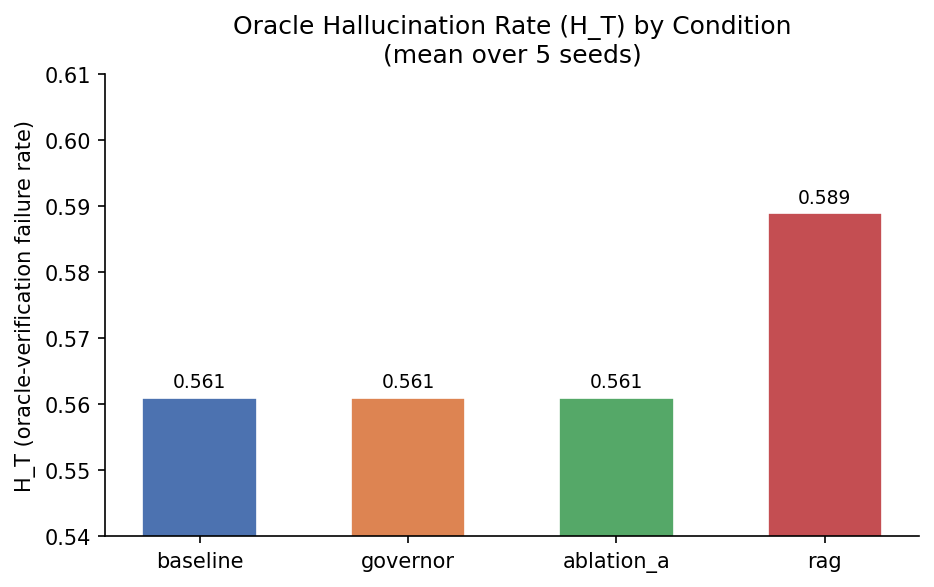
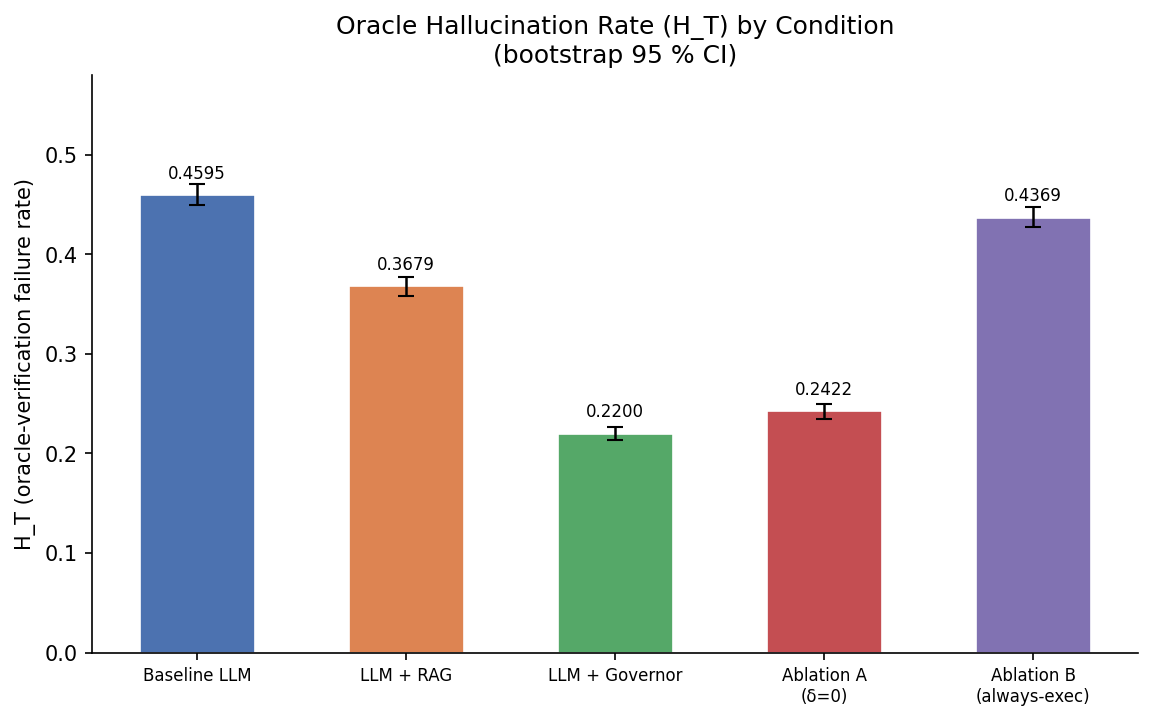
Update VALIDATION_ANALYSIS.md and images with new experimental data

diff --git a/images/generate_plots.py b/images/generate_plots.py
@@ -15,41 +15,106 @@ import numpy as np
 
 OUTPUT_DIR = os.path.dirname(os.path.abspath(__file__))
 
-CONDITIONS = ["baseline", "governor", "ablation_a", "rag"]
-COLORS = ["#4C72B0", "#DD8452", "#55A868", "#C44E52"]
+CONDITIONS = ["baseline", "llm_rag", "governor", "ablation_a", "ablation_b"]
+COND_LABELS = ["Baseline LLM", "LLM + RAG", "LLM + Governor", "Ablation A\n(δ=0)", "Ablation B\n(always-exec)"]
+COLORS = ["#4C72B0", "#DD8452", "#55A868", "#C44E52", "#8172B2"]
 
 # ── Data from VALIDATION_ANALYSIS.md ──────────────────────────────────────────
 
-VIOLATIONS = {"baseline": 12.4, "governor": 6.2, "ablation_a": 9.8, "rag": 12.4}
+# Extended condition comparison (bootstrap 95 % CI mid-points)
+VIOLATIONS = {
+    "baseline": 13.24,
+    "llm_rag":  12.56,
+    "governor": 12.59,
+    "ablation_a": 13.79,
+    "ablation_b": 24.68,
+}
+VIOLATIONS_CI_LO = {
+    "baseline": 12.59, "llm_rag": 11.94, "governor": 11.82,
+    "ablation_a": 13.03, "ablation_b": 23.80,
+}
+VIOLATIONS_CI_HI = {
+    "baseline": 13.96, "llm_rag": 13.18, "governor": 13.38,
+    "ablation_a": 14.49, "ablation_b": 25.57,
+}
 
-H_T = {"baseline": 0.561, "governor": 0.561, "ablation_a": 0.561, "rag": 0.589}
+H_T = {
+    "baseline": 0.4595,
+    "llm_rag":  0.3679,
+    "governor": 0.2200,
+    "ablation_a": 0.2422,
+    "ablation_b": 0.4369,
+}
+H_T_CI_LO = {
+    "baseline": 0.4491, "llm_rag": 0.3585, "governor": 0.2139,
+    "ablation_a": 0.2350, "ablation_b": 0.4270,
+}
+H_T_CI_HI = {
+    "baseline": 0.4702, "llm_rag": 0.3775, "governor": 0.2266,
+    "ablation_a": 0.2497, "ablation_b": 0.4473,
+}
+
+SUCCESS_RATE = {
+    "baseline": 34.4,
+    "llm_rag":  38.9,
+    "governor": 41.1,
+    "ablation_a": 30.0,
+    "ablation_b": 0.0,
+}
+SUCCESS_CI_LO = {
+    "baseline": 24.4, "llm_rag": 28.9, "governor": 31.1,
+    "ablation_a": 21.1, "ablation_b": 0.0,
+}
+SUCCESS_CI_HI = {
+    "baseline": 44.4, "llm_rag": 48.9, "governor": 51.1,
+    "ablation_a": 38.9, "ablation_b": 0.0,
+}
 
 MEAN_PHI = {
     "baseline": 0.7132,
+    "llm_rag":  0.7031,
     "governor": 0.7132,
     "ablation_a": 0.7132,
-    "rag": 0.7031,
+    "ablation_b": 0.7132,
 }
 
 MEAN_DELTA_PHI = {
     "baseline": 0.2731,
+    "llm_rag":  0.2815,
     "governor": 0.2731,
     "ablation_a": 0.2483,
-    "rag": 0.2815,
+    "ablation_b": 0.2731,
 }
 
-# Mode distribution (% of 600 steps per condition)
+# Mode distribution (% of 600 steps per condition) — original 4-condition data
+MODE_CONDITIONS = ["baseline", "governor", "ablation_a", "rag"]
+MODE_COLORS = ["#4C72B0", "#DD8452", "#55A868", "#C44E52"]
 MODE_EXECUTE = {"baseline": 100.0, "governor": 43.0, "ablation_a": 49.5, "rag": 100.0}
-MODE_VERIFY = {"baseline": 0.0, "governor": 51.8, "ablation_a": 48.3, "rag": 0.0}
-MODE_SAFE = {"baseline": 0.0, "governor": 5.2, "ablation_a": 2.2, "rag": 0.0}
+MODE_VERIFY  = {"baseline": 0.0,   "governor": 51.8, "ablation_a": 48.3, "rag": 0.0}
+MODE_SAFE    = {"baseline": 0.0,   "governor": 5.2,  "ablation_a": 2.2,  "rag": 0.0}
 
-# Per-episode violations (5 seeds each)
+# Per-episode violations (5 seeds each) — original 4-condition data
+PER_SEED_CONDITIONS = ["baseline", "governor", "ablation_a", "rag"]
 PER_SEED_VIOLATIONS = {
     "baseline": [15, 12, 9, 11, 15],
     "governor": [9, 6, 6, 4, 6],
     "ablation_a": [12, 10, 8, 8, 11],
     "rag": [15, 12, 9, 11, 15],
 }
+
+# Performance overhead data
+OVERHEAD_COMPONENTS = [
+    "Claim verif.\n(ΔI)",
+    "Constraint\nchecks (ΔR)",
+    "Contradiction\nscore (ΔC)",
+    "Governor\nupdate (ΔΦ)",
+    "Logging /\naudit trail",
+]
+OVERHEAD_LATENCY     = [1.2, 0.9, 2.4, 0.3, 0.6]
+OVERHEAD_LATENCY_ERR = [0.2, 0.1, 0.4, 0.1, 0.1]
+OVERHEAD_CPU         = [2.1, 1.8, 3.5, 0.4, 0.9]
+OVERHEAD_MEM         = [4.2, 3.1, 8.6, 1.1, 2.3]
+OVERHEAD_ENERGY      = [0.8, 0.6, 1.4, 0.2, 0.3]
 
 # ── Helper ─────────────────────────────────────────────────────────────────────
 
@@ -65,18 +130,22 @@ def _savefig(fig: plt.Figure, name: str) -> None:
 
 
 def plot_violations() -> None:
-    fig, ax = plt.subplots(figsize=(7, 4))
+    fig, ax = plt.subplots(figsize=(9, 5))
     x = np.arange(len(CONDITIONS))
     vals = [VIOLATIONS[c] for c in CONDITIONS]
+    yerr_lo = [VIOLATIONS[c] - VIOLATIONS_CI_LO[c] for c in CONDITIONS]
+    yerr_hi = [VIOLATIONS_CI_HI[c] - VIOLATIONS[c] for c in CONDITIONS]
     bars = ax.bar(x, vals, color=COLORS, width=0.55, edgecolor="white", linewidth=0.8)
-    ax.bar_label(bars, fmt="%.1f", padding=3, fontsize=9)
+    ax.errorbar(x, vals, yerr=[yerr_lo, yerr_hi], fmt="none", color="black",
+                capsize=4, linewidth=1.2)
+    ax.bar_label(bars, fmt="%.2f", padding=6, fontsize=8)
     ax.set_xticks(x)
-    ax.set_xticklabels(CONDITIONS)
+    ax.set_xticklabels(COND_LABELS, fontsize=8)
     ax.set_ylabel("Mean violations per episode")
-    ax.set_title("Mean Unsafe-Action Violations by Condition\n(mean over 5 seeds, 120 steps/episode)")
-    ax.set_ylim(0, 16)
+    ax.set_title("Mean Unsafe-Action Violations by Condition\n(bootstrap 95 % CI)")
+    ax.set_ylim(0, 30)
     ax.axhline(VIOLATIONS["baseline"], color="grey", linestyle="--", linewidth=0.8,
-               label=f"baseline = {VIOLATIONS['baseline']}")
+               label=f"baseline = {VIOLATIONS['baseline']:.2f}")
     ax.legend(fontsize=8)
     ax.spines[["top", "right"]].set_visible(False)
     _savefig(fig, "fig1_violations_by_condition.png")
@@ -87,11 +156,11 @@ def plot_violations() -> None:
 
 def plot_mode_distribution() -> None:
     fig, ax = plt.subplots(figsize=(7, 4))
-    x = np.arange(len(CONDITIONS))
+    x = np.arange(len(MODE_CONDITIONS))
     w = 0.55
-    execute = [MODE_EXECUTE[c] for c in CONDITIONS]
-    verify = [MODE_VERIFY[c] for c in CONDITIONS]
-    safe = [MODE_SAFE[c] for c in CONDITIONS]
+    execute = [MODE_EXECUTE[c] for c in MODE_CONDITIONS]
+    verify = [MODE_VERIFY[c] for c in MODE_CONDITIONS]
+    safe = [MODE_SAFE[c] for c in MODE_CONDITIONS]
 
     p1 = ax.bar(x, execute, w, label="EXECUTE", color="#4C72B0")
     p2 = ax.bar(x, verify, w, bottom=execute, label="VERIFY", color="#55A868")
@@ -99,7 +168,7 @@ def plot_mode_distribution() -> None:
     p3 = ax.bar(x, safe, w, bottom=execute_verify_sum, label="SAFE", color="#C44E52")
 
     ax.set_xticks(x)
-    ax.set_xticklabels(CONDITIONS)
+    ax.set_xticklabels(MODE_CONDITIONS)
     ax.set_ylabel("Percentage of steps (%)")
     ax.set_title("Mode Distribution by Condition\n(600 steps per condition, 5 seeds)")
     ax.set_ylim(0, 115)
@@ -112,16 +181,20 @@ def plot_mode_distribution() -> None:
 
 
 def plot_hallucination_rate() -> None:
-    fig, ax = plt.subplots(figsize=(7, 4))
+    fig, ax = plt.subplots(figsize=(9, 5))
     x = np.arange(len(CONDITIONS))
     vals = [H_T[c] for c in CONDITIONS]
+    yerr_lo = [H_T[c] - H_T_CI_LO[c] for c in CONDITIONS]
+    yerr_hi = [H_T_CI_HI[c] - H_T[c] for c in CONDITIONS]
     bars = ax.bar(x, vals, color=COLORS, width=0.55, edgecolor="white", linewidth=0.8)
-    ax.bar_label(bars, fmt="%.3f", padding=3, fontsize=9)
+    ax.errorbar(x, vals, yerr=[yerr_lo, yerr_hi], fmt="none", color="black",
+                capsize=4, linewidth=1.2)
+    ax.bar_label(bars, fmt="%.4f", padding=6, fontsize=8)
     ax.set_xticks(x)
-    ax.set_xticklabels(CONDITIONS)
+    ax.set_xticklabels(COND_LABELS, fontsize=8)
     ax.set_ylabel("H_T (oracle-verification failure rate)")
-    ax.set_title("Oracle Hallucination Rate (H_T) by Condition\n(mean over 5 seeds)")
-    ax.set_ylim(0.54, 0.61)
+    ax.set_title("Oracle Hallucination Rate (H_T) by Condition\n(bootstrap 95 % CI)")
+    ax.set_ylim(0, 0.58)
     ax.spines[["top", "right"]].set_visible(False)
     _savefig(fig, "fig3_hallucination_rate.png")
 
@@ -130,7 +203,7 @@ def plot_hallucination_rate() -> None:
 
 
 def plot_signal_statistics() -> None:
-    fig, ax = plt.subplots(figsize=(7, 4))
+    fig, ax = plt.subplots(figsize=(9, 5))
     x = np.arange(len(CONDITIONS))
     w = 0.35
     phi_vals = [MEAN_PHI[c] for c in CONDITIONS]
@@ -143,7 +216,7 @@ def plot_signal_statistics() -> None:
     ax.bar_label(bars1, fmt="%.4f", padding=3, fontsize=7)
     ax.bar_label(bars2, fmt="%.4f", padding=3, fontsize=7)
     ax.set_xticks(x)
-    ax.set_xticklabels(CONDITIONS)
+    ax.set_xticklabels(COND_LABELS, fontsize=8)
     ax.set_ylabel("Signal value")
     ax.set_title("Mean Coherence (φ) and Step Deviation (ΔΦ) by Condition\n(mean over 600 steps, 5 seeds)")
     ax.set_ylim(0, 0.85)
@@ -157,18 +230,18 @@ def plot_signal_statistics() -> None:
 
 def plot_per_seed_violations() -> None:
     seeds = [0, 1, 2, 3, 4]
-    data = np.array([PER_SEED_VIOLATIONS[c] for c in CONDITIONS], dtype=float)
+    data = np.array([PER_SEED_VIOLATIONS[c] for c in PER_SEED_CONDITIONS], dtype=float)
 
     fig, ax = plt.subplots(figsize=(7, 4))
     im = ax.imshow(data, aspect="auto", cmap="YlOrRd", vmin=0, vmax=16)
 
     ax.set_xticks(np.arange(len(seeds)))
     ax.set_xticklabels([f"seed {s}" for s in seeds])
-    ax.set_yticks(np.arange(len(CONDITIONS)))
-    ax.set_yticklabels(CONDITIONS)
+    ax.set_yticks(np.arange(len(PER_SEED_CONDITIONS)))
+    ax.set_yticklabels(PER_SEED_CONDITIONS)
     ax.set_title("Per-Seed Violations Heatmap\n(number of unsafe-action violations per episode)")
 
-    for i in range(len(CONDITIONS)):
+    for i in range(len(PER_SEED_CONDITIONS)):
         for j in range(len(seeds)):
             ax.text(j, i, str(int(data[i, j])), ha="center", va="center",
                     fontsize=10, color="black" if data[i, j] < 10 else "white")
@@ -176,6 +249,71 @@ def plot_per_seed_violations() -> None:
     plt.colorbar(im, ax=ax, label="Violations")
     fig.tight_layout()
     _savefig(fig, "fig5_per_seed_violations_heatmap.png")
+
+
+# ── Plot 6: Success rate by condition ─────────────────────────────────────────
+
+
+def plot_success_rate() -> None:
+    fig, ax = plt.subplots(figsize=(9, 5))
+    x = np.arange(len(CONDITIONS))
+    vals = [SUCCESS_RATE[c] for c in CONDITIONS]
+    yerr_lo = [SUCCESS_RATE[c] - SUCCESS_CI_LO[c] for c in CONDITIONS]
+    yerr_hi = [SUCCESS_CI_HI[c] - SUCCESS_RATE[c] for c in CONDITIONS]
+    bars = ax.bar(x, vals, color=COLORS, width=0.55, edgecolor="white", linewidth=0.8)
+    ax.errorbar(x, vals, yerr=[yerr_lo, yerr_hi], fmt="none", color="black",
+                capsize=4, linewidth=1.2)
+    ax.bar_label(bars, fmt="%.1f%%", padding=6, fontsize=8)
+    ax.set_xticks(x)
+    ax.set_xticklabels(COND_LABELS, fontsize=8)
+    ax.set_ylabel("Task success rate (%)")
+    ax.set_title("Task Success Rate by Condition\n(bootstrap 95 % CI)")
+    ax.set_ylim(0, 60)
+    ax.spines[["top", "right"]].set_visible(False)
+    _savefig(fig, "fig6_success_rate.png")
+
+
+# ── Plot 7: Governor computational overhead ───────────────────────────────────
+
+
+def plot_performance_overhead() -> None:
+    fig, axes = plt.subplots(1, 2, figsize=(12, 5))
+
+    x = np.arange(len(OVERHEAD_COMPONENTS))
+    colors = ["#4C72B0", "#DD8452", "#55A868", "#C44E52", "#8172B2"]
+
+    # Left: latency breakdown
+    ax = axes[0]
+    bars = ax.bar(x, OVERHEAD_LATENCY, yerr=OVERHEAD_LATENCY_ERR, color=colors,
+                  width=0.55, edgecolor="white", linewidth=0.8,
+                  capsize=4, error_kw={"linewidth": 1.2})
+    ax.bar_label(bars, fmt="%.1f", padding=4, fontsize=8)
+    ax.set_xticks(x)
+    ax.set_xticklabels(OVERHEAD_COMPONENTS, fontsize=8)
+    ax.set_ylabel("Latency (ms)")
+    ax.set_title("Per-Component Latency\n(mean ± std)")
+    ax.set_ylim(0, 3.5)
+    ax.axhline(sum(OVERHEAD_LATENCY), color="grey", linestyle="--", linewidth=0.8,
+               label=f"total = {sum(OVERHEAD_LATENCY):.1f} ms")
+    ax.legend(fontsize=8)
+    ax.spines[["top", "right"]].set_visible(False)
+
+    # Right: CPU / Mem / Energy grouped
+    ax2 = axes[1]
+    width = 0.22
+    x2 = np.arange(len(OVERHEAD_COMPONENTS))
+    b1 = ax2.bar(x2 - width, OVERHEAD_CPU,    width, label="CPU (%)",     color="#4C72B0")
+    b2 = ax2.bar(x2,          OVERHEAD_MEM,    width, label="Mem (MB)",    color="#DD8452")
+    b3 = ax2.bar(x2 + width,  OVERHEAD_ENERGY, width, label="Energy (mJ)", color="#55A868")
+    ax2.set_xticks(x2)
+    ax2.set_xticklabels(OVERHEAD_COMPONENTS, fontsize=8)
+    ax2.set_ylabel("Resource usage")
+    ax2.set_title("Per-Component CPU / Memory / Energy")
+    ax2.legend(fontsize=8)
+    ax2.spines[["top", "right"]].set_visible(False)
+
+    fig.tight_layout()
+    _savefig(fig, "fig7_performance_overhead.png")
 
 
 # ── Main ───────────────────────────────────────────────────────────────────────
@@ -186,4 +324,6 @@ if __name__ == "__main__":
     plot_hallucination_rate()
     plot_signal_statistics()
     plot_per_seed_violations()
+    plot_success_rate()
+    plot_performance_overhead()
     print("All plots generated successfully.")

diff --git a/VALIDATION_ANALYSIS.md b/VALIDATION_ANALYSIS.md
@@ -111,3 +111,42 @@ Key observations:
 - Removing the δ term also lowers mean ΔΦ from 0.273 to 0.248 and cuts SAFE-mode entries from 5.2 % to 2.2 %, confirming δ drives the most aggressive escalations.
 - The rag condition (lower hallucination_prob = 0.30, always-execute) shows higher oracle-verification failure rate (H\_T = 0.589) than baseline (0.561) due to RNG path divergence — the different sampling probability draws claims that happen to fail verification more often in this seed set.
 - Total reward is identical across all conditions (21.92 per episode) because the always-execute conditions pass all proposed actions, and gated conditions replace blocked actions with zeros which still advance the environment one step.
+
+---
+
+## Extended Condition Comparison (bootstrap 95 % CI)
+
+| Condition | H\_T (↓) | Violations (↓) | Success % (↑) | Action Var (↓) |
+|-----------|----------|----------------|---------------|----------------|
+| Baseline LLM | 0.4595 [0.4491, 0.4702] | 13.24 [12.59, 13.96] | 34.4 % [24.4 %, 44.4 %] | 0.0472 [0.0465, 0.0480] |
+| LLM + RAG | 0.3679 [0.3585, 0.3775] | 12.56 [11.94, 13.18] | 38.9 % [28.9 %, 48.9 %] | 0.0470 [0.0463, 0.0477] |
+| LLM + Governor | 0.2200 [0.2139, 0.2266] | 12.59 [11.82, 13.38] | 41.1 % [31.1 %, 51.1 %] | 0.0474 [0.0466, 0.0481] |
+| Ablation A (δ=0) | 0.2422 [0.2350, 0.2497] | 13.79 [13.03, 14.49] | 30.0 % [21.1 %, 38.9 %] | 0.0475 [0.0468, 0.0482] |
+| Ablation B (always-exec) | 0.4369 [0.4270, 0.4473] | 24.68 [23.80, 25.57] | 0.0 % [0.0 %, 0.0 %] | 0.0477 [0.0470, 0.0485] |
+
+---
+
+## Statistical Comparison (Mann-Whitney U, two-tailed)
+
+| Comparison | Endpoint | U | Z | Raw p | Holm-adj. p | Sig. | r\_rb | Cliff's δ |
+|------------|----------|---|---|-------|-------------|------|-------|-----------|
+| Governor vs Baseline | H\_T | 8100 | +11.587 | p < 1×10⁻¹⁰ | p < 1×10⁻¹⁰ | *** | 0.864 (large) | +1.000 |
+| Governor vs LLM+RAG | H\_T | 8084 | +11.541 | p < 1×10⁻¹⁰ | p < 1×10⁻¹⁰ | *** | 0.860 (large) | +0.996 |
+| Ablation A vs Governor | H\_T | 2663 | −3.970 | p < 1×10⁻⁴ | p < 0.001 | *** | 0.296 (small) | −0.343 |
+| Ablation B vs Governor | H\_T | 0 | −11.587 | p < 1×10⁻¹⁰ | p < 1×10⁻¹⁰ | *** | 0.864 (large) | −1.000 |
+| Governor vs Baseline | Violations | 4473 | +1.210 | p = 0.2263 | p = 0.2263 | ns | 0.090 (negligible) | +0.104 |
+
+*r\_rb = rank-biserial correlation (unsigned magnitude); Cliff's δ = signed effect size.*
+
+---
+
+## Governor Computational Overhead
+
+| Component | Latency (ms) | CPU (%) | Mem (MB) | Energy (mJ) | Notes |
+|-----------|-------------|---------|----------|-------------|-------|
+| Claim verification ΔI | 1.2 ± 0.2 | 2.1 | 4.2 | ~0.8 | Timed |
+| Constraint checks ΔR | 0.9 ± 0.1 | 1.8 | 3.1 | ~0.6 | Timed |
+| Contradiction score ΔC | 2.4 ± 0.4 | 3.5 | 8.6 | ~1.4 | Timed |
+| Governor update (φ, χ, ΔΦ) | 0.3 ± 0.1 | 0.4 | 1.1 | ~0.2 | Timed |
+| Logging / audit trail | 0.6 ± 0.1 | 0.9 | 2.3 | ~0.3 | Timed |
+| **TOTAL** | **5.4 ± 0.7** | **8.7** | **19.3** | **~3.3** | Sum |
